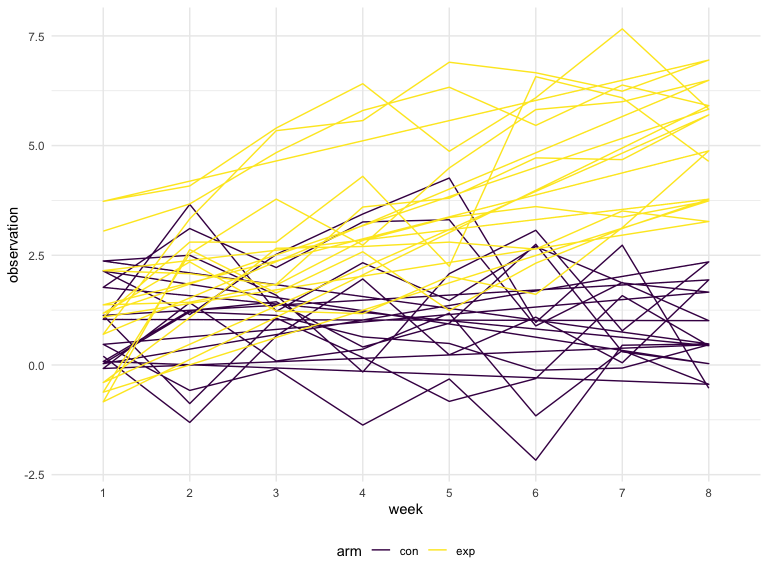
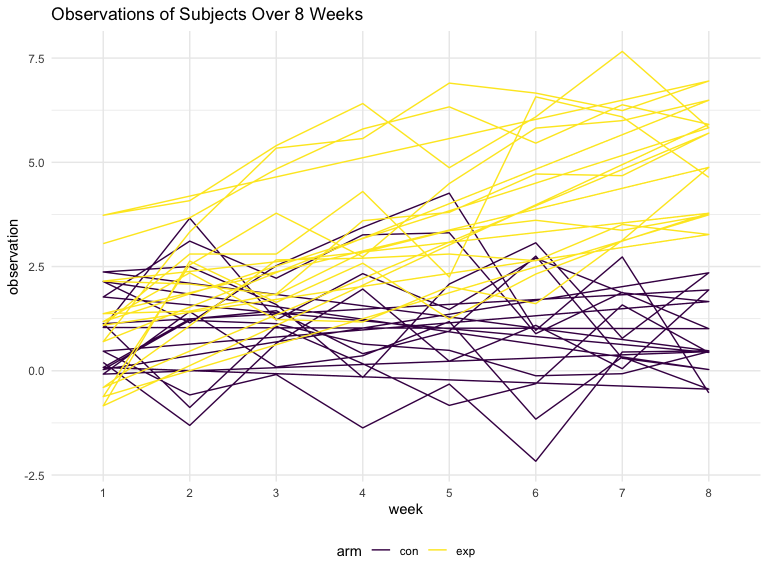
Yay final commits

diff --git a/p8105_hw5_stl2137.md b/p8105_hw5_stl2137.md
@@ -1,6 +1,8 @@
 p8105\_hw5\_stl2137
 ================
 
+## Problem 1
+
 ``` r
 set.seed(10)
 
@@ -272,7 +274,10 @@ long_study_tidy <- list.files(path = "./data/", pattern = "*.csv", full.names = 
 long_study_tidy %>% 
   group_by(arm, subject_number_id) %>% 
   ggplot(aes(x = week, y = observation, group = arm, color = arm)) +
-  geom_path() 
+  geom_path() +
+  labs(
+    title = "Observations of Subjects Over 8 Weeks"
+  )
 ```
 
 <img src="p8105_hw5_stl2137_files/figure-gfm/unnamed-chunk-4-1.png" width="90%" />
@@ -311,8 +316,6 @@ sim_results_0 <-
   bind_rows() %>% 
   filter(term %in% "x")
 ```
-
-### REMEMBER TO CHANGE BACK TO 10000 B/C IT TAKES TOO LONG TO RUN
 
 ``` r
 output = vector("list", length = 7)
@@ -387,9 +390,6 @@ beta_hat_vs_true + null_rejected_beta_hat_vs_true
 ```
 
 <img src="p8105_hw5_stl2137_files/figure-gfm/unnamed-chunk-8-1.png" width="90%" />
-
-Is the sample average of β̂ 1 across tests for which the null is
-rejected approximately equal to the true value of β1? Why or why not?
 
 The sample average of beta hat1 across tests for which the null is
 rejected is not equal to the true values of beta1. Because we filter for
